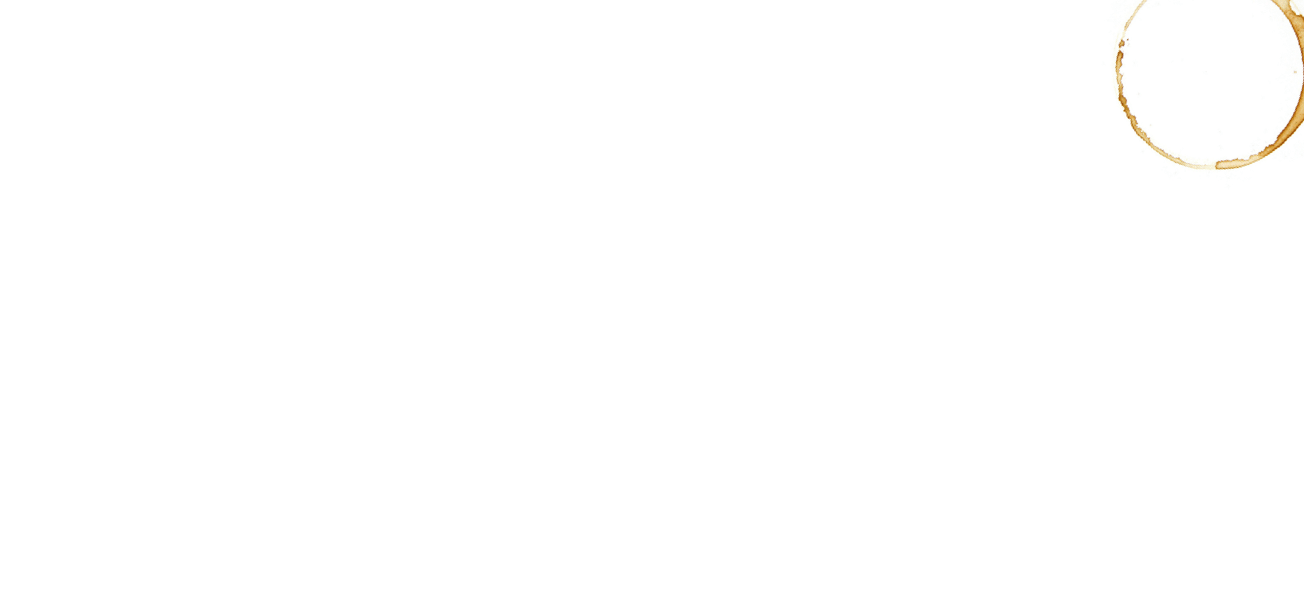
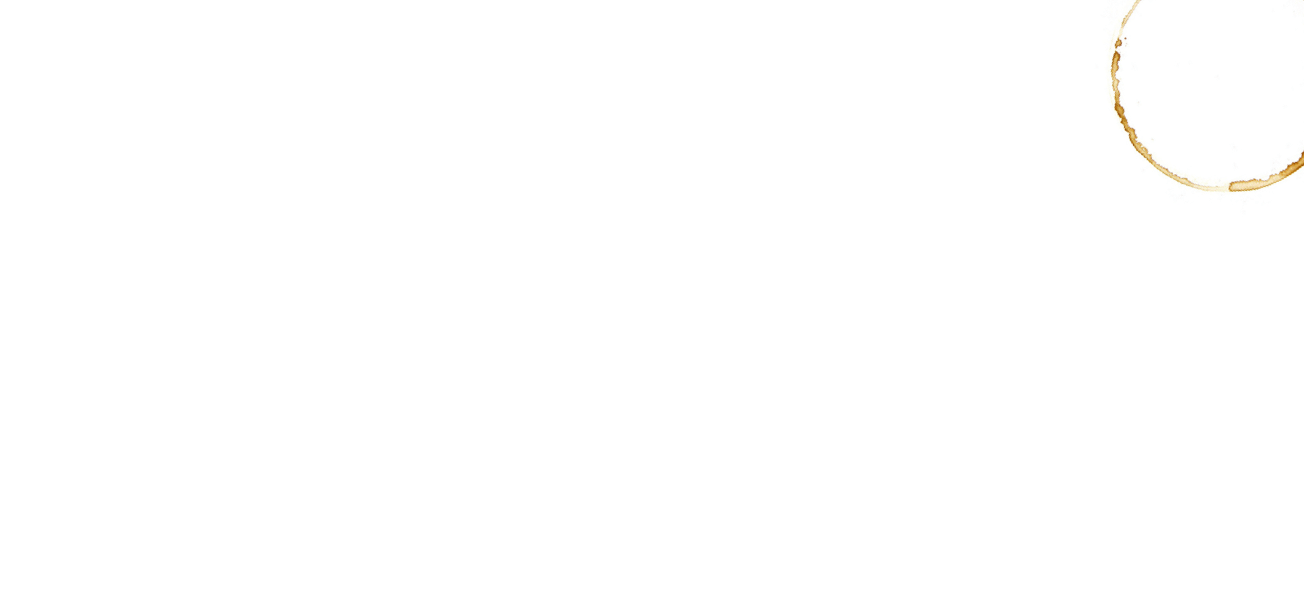
coffee resp big

Changed region(s): [[0.8282, 0.0595, 1.0, 0.3273], [0.9816, 0.0, 1.0, 0.0893], [0.8589, 0.0, 0.8896, 0.0595]]

diff --git a/assets/css/main.css b/assets/css/main.css
@@ -3344,6 +3344,8 @@ h4 {
 
 	.main.style3.secondary {
 		background-image: url("../../images/coffeefooter.png");
+		background-size: cover;
+		background-position: top left, bottom center;
 		background-repeat: no-repeat;
 		text-align: center;
 	}
